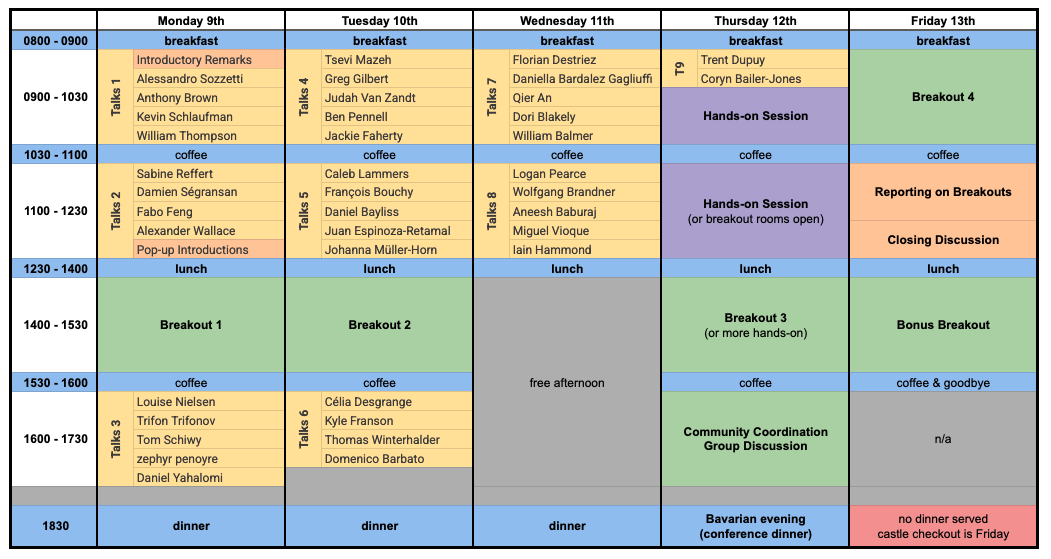
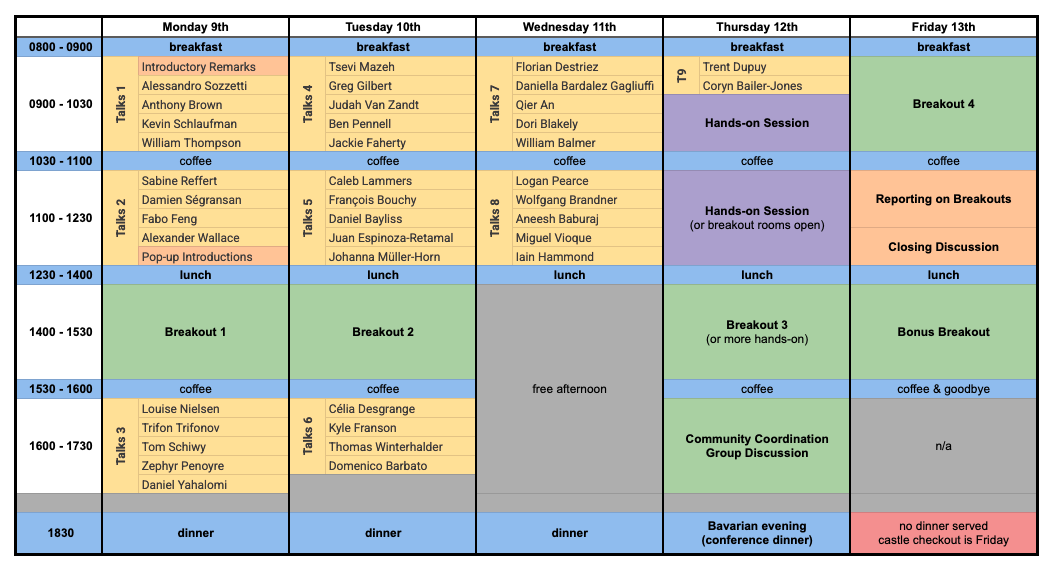
more participant and program tweaks

diff --git a/docs/content/participants.md b/docs/content/participants.md
@@ -5,17 +5,7 @@ active: true
 title: Participants
 ---
 
-## Registration is open!
-
-Please see your invitation email for details on how to RSVP, including the registration link and a registration deadline.
-
-Any personal data you provide will be processed in accordance with the Max Planck Institute for Astronomy [privacy policy](http://www.mpia.de/privacy-policy).
-
-
-There are no registration fees to participate to this workshop, though participants are responsible for their room & board at the Ringberg Castle. See logisitcs for details.
-
-
-Confirmed participants so far:
+Confirmed participants:
 Alessandro Sozzetti,
 Alexander Wallace,
 Aneesh Baburaj,
@@ -36,8 +26,10 @@ Fabo Feng,
 Florian Destriez,
 François Bouchy,
 Greg Gilbert,
+Iain Hammond,
 Jackie Faherty,
 Jan-Vincent Harre,
+Jess Speedie,
 Johanna Müller-Horn,
 Juan Espinoza-Retamal,
 Judah Van Zandt,
@@ -57,6 +49,7 @@ Thomas Winterhalder,
 Trent Dupuy,
 Trifon Trifonov,
 Tsevi Mazeh,
+Tom Schiwy,
 William Balmer,
 William Thompson,
 Wolfgang Brandner,

diff --git a/docs/content/programme_detailed.md b/docs/content/programme_detailed.md
@@ -94,7 +94,7 @@ program:
       time: 09:00 - 10:30 -- Talks 9 & Hands-On
       description: |2-
         Trent Dupuy: TBA
-        Coryn Bailer-Jones: Component masses in stellar and substellar binaries from Gaia astrometry and photometry
+        Coryn Bailer-Jones: Component masses in stellar and substellar binaries in Gaia DR3 from astrometry and photometry
         Hands-on session part I (lead: Damien Ségransan)
     - day: Thursday 12th March
       time: 11:00 - 12:30 -- Hands-on session
